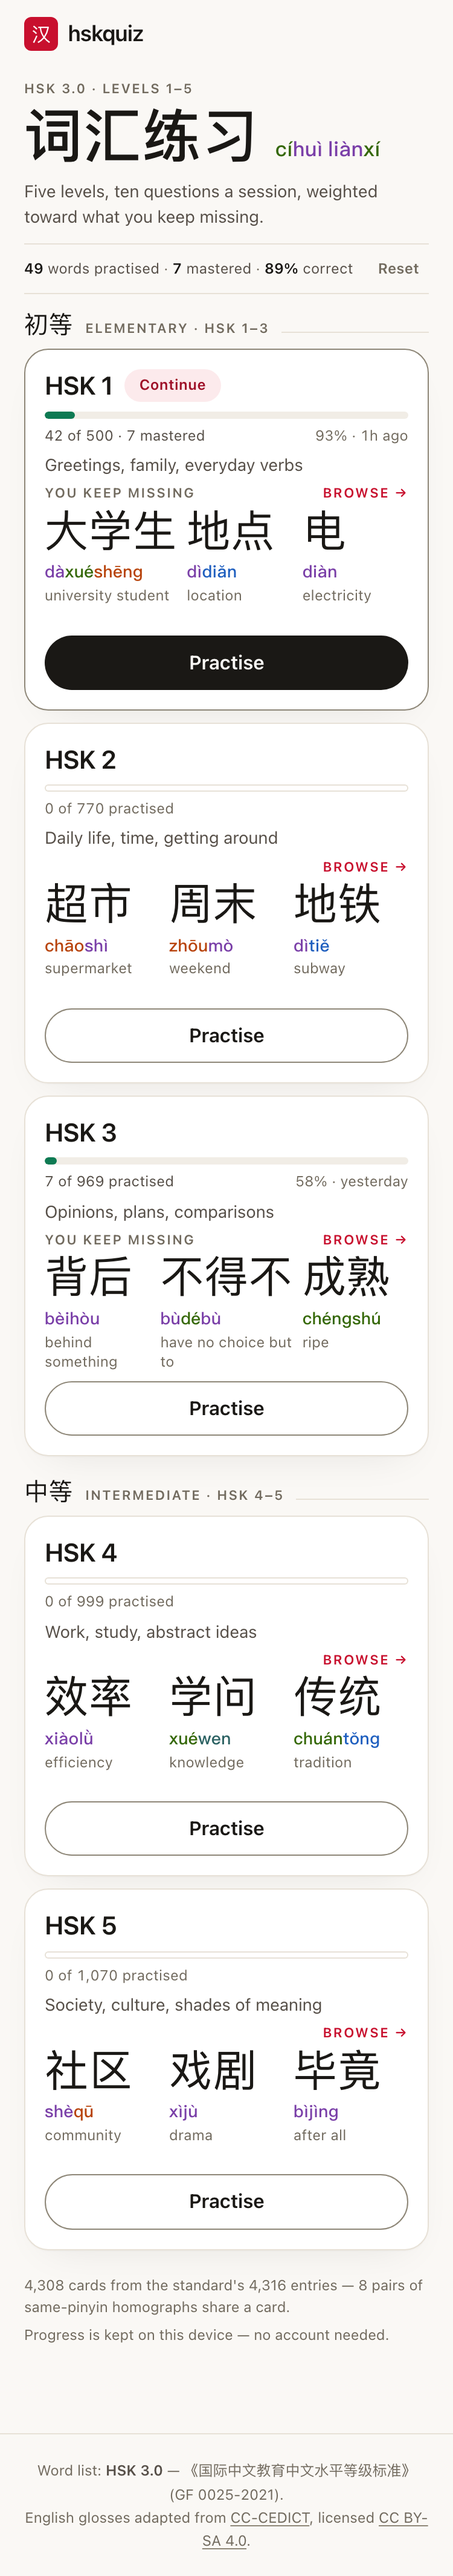
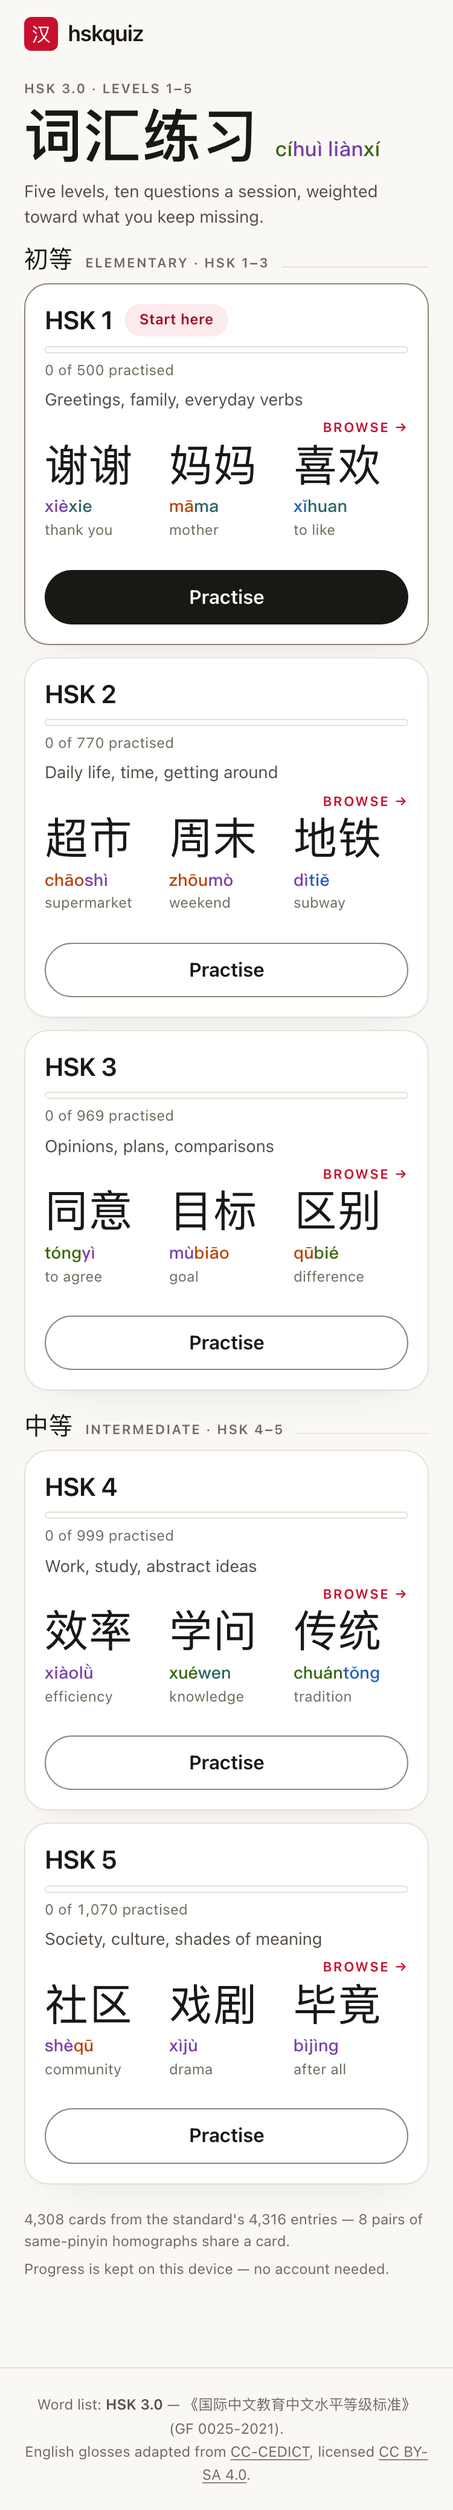
critic(level-select): FAIL — Take the English out of the three preview columns in [loop 4]

diff --git a/progress/verdicts/loop-4-level-select.md b/progress/verdicts/loop-4-level-select.md
@@ -1,0 +1,106 @@
+# Loop 4 — level-select
+
+**Verdict: not passing.** Two majors survive, and the worse of the two is a defect the
+reference apps do not have: the app renders the learner's *own* words worse than the
+hand-picked demo words.
+
+## Blind judge — it preferred ours, decisively
+
+`progress/blind/loop-4/level-select/mapping.json`: A = ours
+(`progress/shots/loop-4/level-select-mobile.png`), B = the reference (Du Chinese Articles,
+`reference/screenshots/duchinese/ui/duchinese-iphone-07-ui.png`). The judge, not told which
+was which, picked **A, gap "large"** — "A reads as authored; B reads as assembled from
+platform defaults." It named the Chinese presence as decisive: our 词汇练习 / 初等 / the
+36px specimens against B's single 13px 新 badge. It also credited the one-accent discipline,
+the hairline cards, the black/ghost pill pair, and the shared left inset.
+
+So `whatWeakerMustChange` is aimed at Du Chinese, not at us. No deficit is being
+manufactured from it. But the judge volunteered three faults in A unprompted, and **all
+three are already on the critic's list** — BROWSE→ reads as a caption on the third
+specimen, the 0% capsule "communicates nothing", and the tone palette is too many hues with
+no key. Two independent observers converging is why those stay on the list below rather
+than getting discounted as taste.
+
+## Surviving findings
+
+### Major — the learner's own words get cut; the demo words never do
+`progress/shots/loop-4/level-select-gloss-small.png` (320×812, HSK 1 weak set seeded with
+地/的/个): all three glosses clipped at once — "turns a word into an…" / "marks pos-session
+like…" / "measure word: gene…" under YOU KEEP MISSING. Same defect at 1440 in
+`progress/shots/loop-4/level-select-longwords-desktop.png`: 吗's column is 52px and "makes a
+sentence a yes-no question" sets as "makes a sen-…". Measured rate: 10/60 personalised cards
+clipped at 320, 3/60 at 1440. The static trio never clips because `preview.ts` picked it to
+fit. Loop 3's assigned gap is otherwise genuinely closed — hanzi is 36px everywhere, pinyin
+is never cut, cards are 298–299px uniform — but the app still degrades the more it is used,
+which is the exact failure loop 3 was told to end.
+
+### Major — the header still costs a third of the first screen, and the page grew
+375×812 cleared: first card top 234px (28.8%), first Practise 471px, document **2,074px** for
+five items — loop 3 measured 273px/2,054px, so the card rose ~40px and the document got
+longer. Seeded: card top 299px (36.8%), document 2,139px. At 320×568 the first card top is
+265 of 568. Third loop this has been named. And the largest Chinese on the page is still the
+48px hero 词汇练习 — 汇 is HSK 4 (`src/lib/data/hsk4.json`) — so an HSK 1 beginner's biggest
+glyphs are ones they cannot read.
+
+### Minor — the whole card body commits to a 10-question session
+Coordinate clicks at 375×812 send the blurb, the title and the count line all to `/quiz/N`;
+nothing marks them as a button, and `progress/shots/loop-4/level-select-pressbody-mobile.png`
+shows the press feedback landing on a Practise pill ~700px below the finger. Both references
+use the full-surface target for *reading*, not for committing.
+
+### Minor — the 0% track still reads as the heading's underline
+`level-select-mobile.png`, `level-select-full-mobile.png`: five identical 6px hairlines. The
+`.hskq-track-empty` inset ring is genuinely there (visible at 3×), but at 1× it is the
+divider it was last loop. Du Chinese paints a filled end-cap at 0/12. The blind judge called
+this out independently.
+
+### Minor — every card leads with a zero on the state weighted hardest
+`level-select-full-mobile.png`: meter + "0 of 500 practised" occupies y=250–276 of a 299px
+card, five times; the one line that helps a newcomer choose sits below it at 14px grey.
+Loop 3's difficulty-encoding finding IS closed — 初等 / 中等 band headings now group 1–3 and 4–5.
+
+### Minor — desktop left-rail void unchanged (~334px)
+`level-select-desktop.png`: `.hskq-colophon` ends y=426, grid ends y=760, document 903 vs a
+900 viewport.
+
+### Minor — per-level counts contradict the official list 1,255px before the reconciliation
+Cards print 770/969/999/1,070 vs 772/973/1000/1071 in `reference/hsk/hsk30-official-L{2..5}.json`.
+The colophon now reconciles the 8 exactly and sits above the fold on desktop (y=329); on
+mobile it is at y=1,825 against HSK 2's count at y≈570.
+
+### Minor — personalised row silently reverts to stock words
+`level-select-longwords-desktop.png`: HSK 2 reads "36 of 770 · 30 mastered · 84%" while
+printing 超市/周末/地铁 under a plain BROWSE. Honest (`fitPreview` returns null rather than
+lying) and rare on a random draw, but a learner's misses are not a random draw.
+
+### Minor — tone colour with no key on a screen where nobody reads tone
+`level-select-desktop.png`: 15 pinyin strings across four saturated hues plus the hero, on a
+page whose accent is otherwise one red. Pleco colours the *character*; Du Chinese sets pinyin
+in one blue. Raised by the blind judge too.
+
+## Biggest gap
+
+**Take the English out of the three preview columns in
+`src/lib/components/levels/LevelCard.svelte` and set the three glosses as one wrapped line
+across the full card width beneath the row.**
+
+Keep hanzi + pinyin in the existing `grid-template-columns: repeat(3, minmax(min-content, 1fr))`
+— those are provably never cut at any width tested. Delete the per-column
+`.hskq-gloss` / `.hskq-gloss-text` box (with its `min-block-size` reservation and its
+`-webkit-line-clamp`) and emit one `<p>` after the `<ul>` reading
+`thank you · mother · to like`, clamped at three lines at the card's full inline width.
+
+This is the one change that makes the learner's own words render as well as the hand-picked
+ones at every viewport. A 77px column cannot hold "measure word: general purpose" and never
+will; a 301px line holds all three glosses at once. It is the shape Pleco already uses — the
+definition gets the whole row, which is why "sb.'s original handwriting or painting" (37
+chars) sets on one line in `reference/screenshots/pleco/pleco-iphone-01.png`. It also removes
+the two-line gloss box reserved on all five cards, roughly 170px off the 2,074px mobile
+document, which is the only structural saving left on the second major.
+
+Verify at **320×568 first**, with HSK 1's weak set seeded to one-character function words
+(地 / 的 / 个 / 吧 / 杯 / 号) — that is the case that currently clips all three columns
+simultaneously, and 188 of the 936 single-character words shipped carry glosses longer than
+18 characters, so it is not an edge case. Then re-check 375 and 1440, and confirm
+`fitPreview` no longer needs to fall back to the stock trio on the long-word seed
+(`level-select-longwords-*`), since the English no longer contributes to column width at all.
